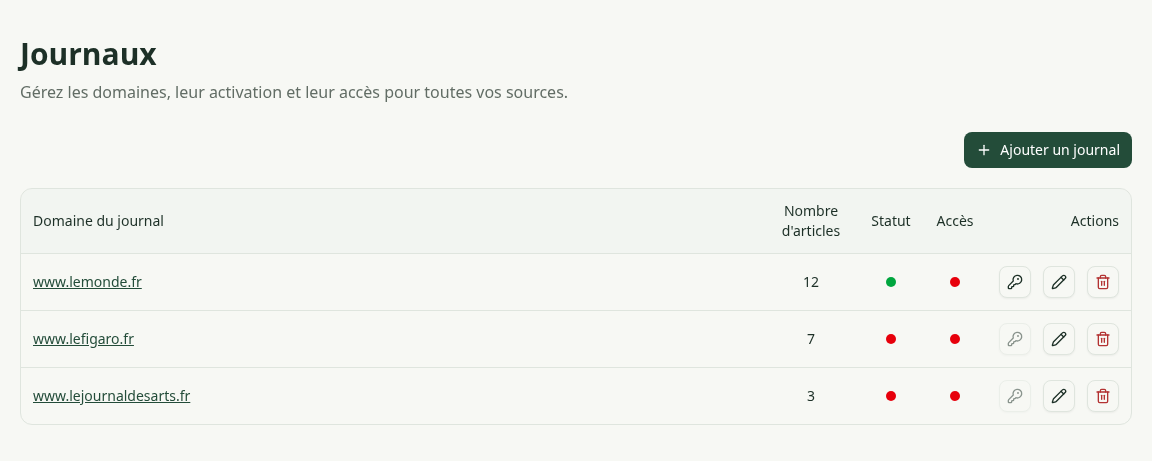
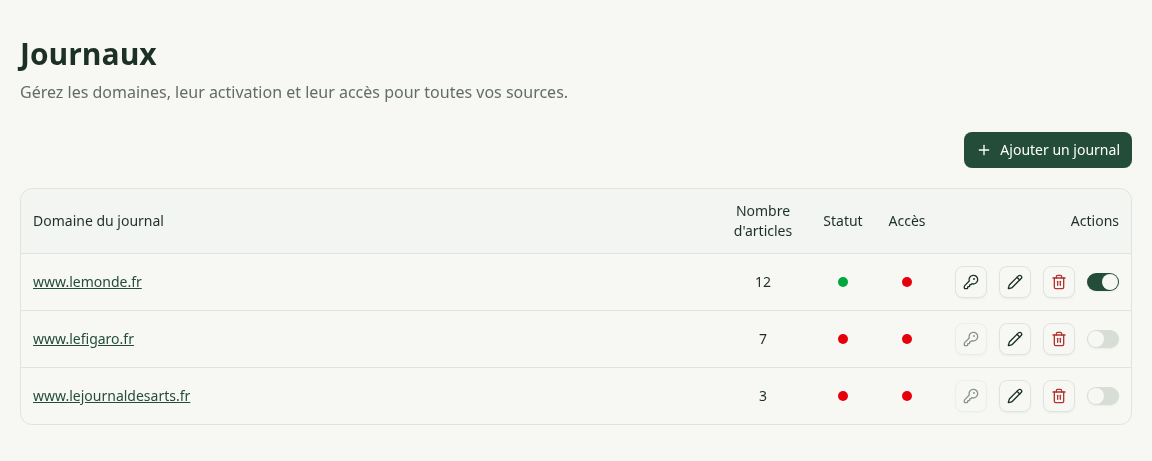
feat: use the shared activation switch for journals

diff --git a/frontend/src/test/journal-manager.test.tsx b/frontend/src/test/journal-manager.test.tsx
@@ -106,7 +106,13 @@ test("shows a compact journal table with three icon actions and no removed descr
   for (const action of actions) expect(action.textContent).toBe("");
   expect(actions[0]).toHaveAccessibleName("Configurer l'accès");
   expect(actions[0]).toBeDisabled();
-  expect(within(cells[1]!).getByRole("button")).toHaveAttribute("aria-pressed", "false");
+  expect(within(cells[1]!).getByRole("img", { name: "Désactivé" })).toHaveClass("bg-red-600");
+  expect(within(cells[1]!).queryByRole("button")).not.toBeInTheDocument();
+  expect(
+    within(cells.at(-1)!).getByRole("switch", { name: "Activer paper.example" }),
+  ).not.toBeChecked();
+  await user.click(within(cells[1]!).getByRole("img", { name: "Désactivé" }));
+  expect(fetcher.mock.calls.some(([, init]) => init?.method === "PATCH")).toBe(false);
   expect(within(cells[2]!).getByRole("img", { name: "Non configuré" })).toHaveClass("bg-red-600");
   await user.hover(actions[1]!);
   expect(await screen.findByRole("tooltip")).toHaveTextContent("Modifier le domaine");
@@ -180,13 +186,34 @@ test("shows saved journal counts and supports keyboard addition, activation, ren
   await user.keyboard("{Enter}");
   await user.type(screen.getByLabelText("Domaine du nouveau journal"), "MANUAL.EXAMPLE");
   await user.click(screen.getByRole("button", { name: "Enregistrer le journal" }));
-  expect(await screen.findByRole("button", { name: "Activer manual.example" })).toBeInTheDocument();
+  expect(await screen.findByRole("switch", { name: "Activer manual.example" })).not.toBeChecked();
   const create = fetcher.mock.calls.find(([, init]) => init?.method === "POST");
   expect(JSON.parse(String(create?.[1]?.body))).toEqual({ domain: "MANUAL.EXAMPLE" });
-  await user.click(screen.getByRole("button", { name: "Activer manual.example" }));
+  screen.getByRole("switch", { name: "Activer manual.example" }).focus();
+  await user.keyboard(" ");
+  await waitFor(() =>
+    expect(screen.getByRole("switch", { name: "Activer manual.example" })).toBeChecked(),
+  );
   expect(
-    await screen.findByRole("button", { name: "Désactiver manual.example" }),
-  ).toBeInTheDocument();
+    within(screen.getByRole("link", { name: "manual.example" }).closest("tr")!).getByRole("img", {
+      name: "Activé",
+    }),
+  ).toHaveClass("bg-green-600");
+  expect(journals.find((journal) => journal.domain === "manual.example")?.enabled).toBe(true);
+  await user.keyboard("{Enter}");
+  await waitFor(() =>
+    expect(screen.getByRole("switch", { name: "Activer manual.example" })).not.toBeChecked(),
+  );
+  expect(journals.find((journal) => journal.domain === "manual.example")?.enabled).toBe(false);
+  expect(
+    within(screen.getByRole("link", { name: "manual.example" }).closest("tr")!).getByRole("img", {
+      name: "Désactivé",
+    }),
+  ).toHaveClass("bg-red-600");
+  await user.click(screen.getByRole("switch", { name: "Activer manual.example" }));
+  await waitFor(() =>
+    expect(screen.getByRole("switch", { name: "Activer manual.example" })).toBeChecked(),
+  );
   await user.click(screen.getByRole("button", { name: "Modifier le domaine manual.example" }));
   expect(screen.getByText(/Changer de domaine désactive le journal/)).toBeInTheDocument();
   await user.clear(screen.getByLabelText("Nouveau domaine pour manual.example"));
@@ -196,8 +223,8 @@ test("shows saved journal counts and supports keyboard addition, activation, ren
   );
   await user.click(screen.getByRole("button", { name: "Enregistrer le domaine" }));
   expect(
-    await screen.findByRole("button", { name: "Activer corrected.example" }),
-  ).toBeInTheDocument();
+    await screen.findByRole("switch", { name: "Activer corrected.example" }),
+  ).not.toBeChecked();
   expect(screen.queryByRole("link", { name: "manual.example" })).not.toBeInTheDocument();
   const remove = screen.getByRole("button", { name: "Supprimer le journal corrected.example" });
   await user.click(remove);

diff --git a/frontend/src/sources/JournalTable.tsx b/frontend/src/sources/JournalTable.tsx
@@ -1,6 +1,7 @@
 import { useState, type ReactNode } from "react";
 import type { JournalPreview, JournalLoginConfig } from "@dailybrief/shared";
 import { Button } from "@/components/ui/button";
+import { Switch } from "@/components/ui/switch";
 import { IconButton } from "@/components/IconButton";
 import { KeyRound, Pencil, Trash2 } from "lucide-react";
 import { Field } from "@/components/Field";
@@ -141,6 +142,15 @@ function JournalRow({
       ? "Formulaire configuré · connexion à vérifier"
       : "Identifiants enregistrés · formulaire à configurer"
     : "Non configuré";
+  const activationSwitch = (
+    <Switch
+      title={journal.enabled ? "Désactiver le journal" : "Activer le journal"}
+      aria-label={`Activer ${journal.domain}`}
+      checked={journal.enabled}
+      disabled={pending}
+      onCheckedChange={(enabled) => void update({ enabled })}
+    />
+  );
   const accessActions = (
     <>
       {journal.loginConfig && (
@@ -358,35 +368,22 @@ function JournalRow({
       </th>
       <td className={management ? "p-3 text-center" : "p-3"}>{journal.count}</td>
       <td className={management ? "p-3 text-center" : "p-3"}>
-        <Button
-          variant={management ? "ghost" : "outline"}
-          size={management ? "icon-sm" : "default"}
-          className="cursor-pointer"
-          title={
-            management
-              ? journal.enabled
-                ? "Désactiver le journal"
-                : "Activer le journal"
-              : undefined
-          }
-          disabled={pending}
-          aria-label={`${journal.enabled ? "Désactiver" : "Activer"} ${journal.domain}`}
-          aria-pressed={journal.enabled}
-          onClick={() => void update({ enabled: !journal.enabled })}
-        >
-          {management ? (
-            <span
-              aria-hidden="true"
-              className={
-                "size-2.5 rounded-full " + (journal.enabled ? "bg-green-600" : "bg-red-600")
-              }
-            />
-          ) : journal.enabled ? (
-            "Activé"
-          ) : (
-            "Désactivé"
-          )}
-        </Button>
+        {management ? (
+          <span
+            role="img"
+            aria-label={journal.enabled ? "Activé" : "Désactivé"}
+            title={journal.enabled ? "Activé" : "Désactivé"}
+            className={
+              "inline-block size-2.5 rounded-full " +
+              (journal.enabled ? "bg-green-600" : "bg-red-600")
+            }
+          />
+        ) : (
+          <div className="flex items-center gap-3">
+            {activationSwitch}
+            <span>{journal.enabled ? "Activé" : "Désactivé"}</span>
+          </div>
+        )}
       </td>
       {management ? (
         <td className="p-3 text-center">
@@ -493,6 +490,7 @@ function JournalRow({
                 </IconButton>
               }
             />
+            {activationSwitch}
           </div>
         </td>
       )}
@@ -561,7 +559,7 @@ export function JournalTable({
                   scope="col"
                   className={
                     management
-                      ? `p-3 font-medium ${label === "Domaine du journal" ? "text-left" : label === "Actions" ? "w-36 text-right" : label === "Nombre d'articles" ? "w-24 text-center" : "w-16 text-center"}`
+                      ? `p-3 font-medium ${label === "Domaine du journal" ? "text-left" : label === "Actions" ? "w-48 text-right" : label === "Nombre d'articles" ? "w-24 text-center" : "w-16 text-center"}`
                       : "p-3 text-left"
                   }
                 >

diff --git a/frontend/src/test/journal-table.test.tsx b/frontend/src/test/journal-table.test.tsx
@@ -70,7 +70,7 @@ beforeEach(() => {
 test("saves form selectors, tests the saved login and distinguishes configuration from successful authentication", async () => {
   const user = userEvent.setup();
   render(<Harness />);
-  await user.click(screen.getByRole("button", { name: "Activer www.lemonde.fr" }));
+  await user.click(screen.getByRole("switch", { name: "Activer www.lemonde.fr" }));
   await user.click(screen.getAllByRole("button", { name: "Configurer l'accès" })[0]!);
   expect(screen.getByLabelText("URL du formulaire de connexion")).toHaveFocus();
   expect(screen.getByRole("button", { name: "Remplir avec l'IA" })).toBeDisabled();
@@ -159,11 +159,10 @@ test("renders counts, keyboard activation and credential editing with no passwor
   expect(within(rows[1]!).getByText("12")).toBeInTheDocument();
   expect(within(rows[2]!).getByText("7")).toBeInTheDocument();
   expect(within(rows[1]!).getByRole("button", { name: "Configurer l'accès" })).toBeDisabled();
-  screen.getByRole("button", { name: "Activer www.lemonde.fr" }).focus();
-  await user.keyboard("{Enter}");
-  expect(await screen.findByRole("button", { name: "Désactiver www.lemonde.fr" })).toHaveAttribute(
-    "aria-pressed",
-    "true",
+  screen.getByRole("switch", { name: "Activer www.lemonde.fr" }).focus();
+  await user.keyboard(" ");
+  await waitFor(() =>
+    expect(screen.getByRole("switch", { name: "Activer www.lemonde.fr" })).toBeChecked(),
   );
   await user.click(within(rows[1]!).getByRole("button", { name: "Configurer l'accès" }));
   await user.type(screen.getByLabelText("Email pour www.lemonde.fr"), "reader@example.com");
@@ -194,7 +193,7 @@ test("renders counts, keyboard activation and credential editing with no passwor
 test("clears an unsaved password when closing the access modal with Escape", async () => {
   const user = userEvent.setup();
   render(<Harness />);
-  await user.click(screen.getByRole("button", { name: "Activer www.lemonde.fr" }));
+  await user.click(screen.getByRole("switch", { name: "Activer www.lemonde.fr" }));
   const trigger = screen.getAllByRole("button", { name: "Configurer l'accès" })[0]!;
   await user.click(trigger);
   expect(screen.getByLabelText("URL du formulaire de connexion")).toHaveFocus();

diff --git a/backend/scripts/test-e2e.ts b/backend/scripts/test-e2e.ts
@@ -284,7 +284,7 @@ try {
   await page.keyboard.press("Enter");
   await page.getByLabel("Domaine du nouveau journal").fill("MANUAL-JOURNAL.EXAMPLE");
   await page.getByRole("button", { name: "Enregistrer le journal", exact: true }).click();
-  await page.getByRole("button", { name: "Activer manual-journal.example", exact: true }).waitFor();
+  await page.getByRole("switch", { name: "Activer manual-journal.example", exact: true }).waitFor();
   await page
     .getByRole("button", { name: "Modifier le domaine manual-journal.example", exact: true })
     .click();
@@ -295,7 +295,7 @@ try {
   await page.getByRole("dialog").screenshot({ path: "/tmp/dailybrief-domain-modal-mobile.png" });
   await page.getByRole("button", { name: "Enregistrer le domaine", exact: true }).click();
   await page
-    .getByRole("button", { name: "Activer corrected-journal.example", exact: true })
+    .getByRole("switch", { name: "Activer corrected-journal.example", exact: true })
     .waitFor();
   assert(
     await page.evaluate(() => document.documentElement.scrollWidth <= window.innerWidth),
@@ -624,13 +624,15 @@ try {
     await page.evaluate(() => document.documentElement.scrollWidth <= window.innerWidth),
     "Journal table must fit the mobile viewport with internal scrolling",
   );
-  const activateJournal = page.getByRole("button", {
+  const activateJournal = page.getByRole("switch", {
     name: "Activer publisher.example",
     exact: true,
   });
   await activateJournal.focus();
   await page.keyboard.press("Enter");
-  await page.getByRole("button", { name: "Désactiver publisher.example", exact: true }).waitFor();
+  await page
+    .getByRole("switch", { name: "Activer publisher.example", checked: true, exact: true })
+    .waitFor();
   await page.getByRole("button", { name: "Configurer l'accès" }).click();
   await page.getByLabel("Email pour publisher.example").fill("subscriber@example.test");
   await page.getByLabel("Mot de passe", { exact: true }).fill("test-only-journal-password");

diff --git a/frontend/src/pages/DocumentationPage.tsx b/frontend/src/pages/DocumentationPage.tsx
@@ -571,9 +571,10 @@ export function DocumentationPage() {
                 base.
               </li>
               <li>
-                <strong>Activez le journal.</strong> Les nouveaux domaines sont désactivés par
-                défaut. Le point vert indique un domaine actif et le point rouge un domaine
-                désactivé. Un journal public peut être activé sans identifiants.
+                <strong>Activez le journal avec le switch de la colonne Actions.</strong> Les
+                nouveaux domaines sont désactivés par défaut. Le point vert indique un domaine actif
+                et le point rouge un domaine désactivé. Un journal public peut être activé sans
+                identifiants.
               </li>
               <li>
                 Si un abonnement est nécessaire, utilisez l’icône en forme de clé{" "}
@@ -597,7 +598,7 @@ export function DocumentationPage() {
               name="journaux"
               height={410}
               alt="Tableau des journaux avec comptes, états d’activation, accès et actions"
-              caption="Les actions permettent de configurer l’accès, modifier le domaine ou supprimer le journal."
+              caption="Les actions permettent de configurer l’accès, modifier le domaine, supprimer le journal et l’activer ou le désactiver avec le switch."
             />
             <Table
               headings={["Réglage de connexion", "Exemple fictif", "Comment le choisir"]}

diff --git a/README.md b/README.md
@@ -654,8 +654,12 @@ La collecte manuelle et programmée applique les mêmes règles. Le recensement 
 workflow n'écrit ni articles, ni résumés, ni newsletters et n'envoie aucun email.
 Les RSS directs et le scraping ne passent pas par ces réglages.
 
-La page **« Journaux »** affiche **« Vos journaux »**, avec ajout, activation,
-configuration de l'accès, modification du domaine et suppression. L'ajout, la
+La page **« Journaux »** permet l'ajout, l'activation,
+la configuration de l'accès, la modification du domaine et la suppression.
+Le switch de la colonne Actions active ou désactive le journal, comme pour les sources.
+Le point vert ou rouge de la colonne Statut est un indicateur sans action au clic.
+Le tableau du workflow utilise également le switch commun pour l'activation.
+L'ajout, la
 modification du domaine et la configuration de l'accès s'ouvrent dans des modales,
 y compris pour l'accès depuis le workflow. Échap ou « Annuler » ferme sans enregistrer,
 puis le focus revient au bouton d'ouverture. Les champs et les actions sont espacés,
